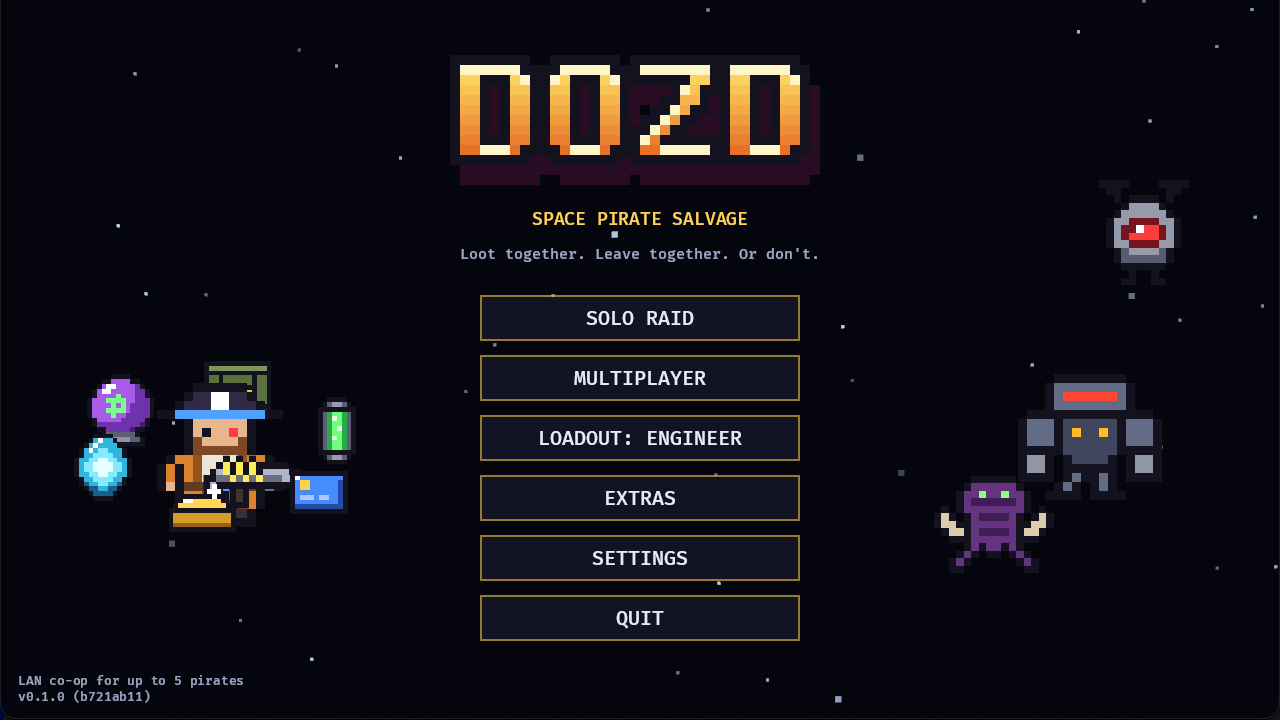
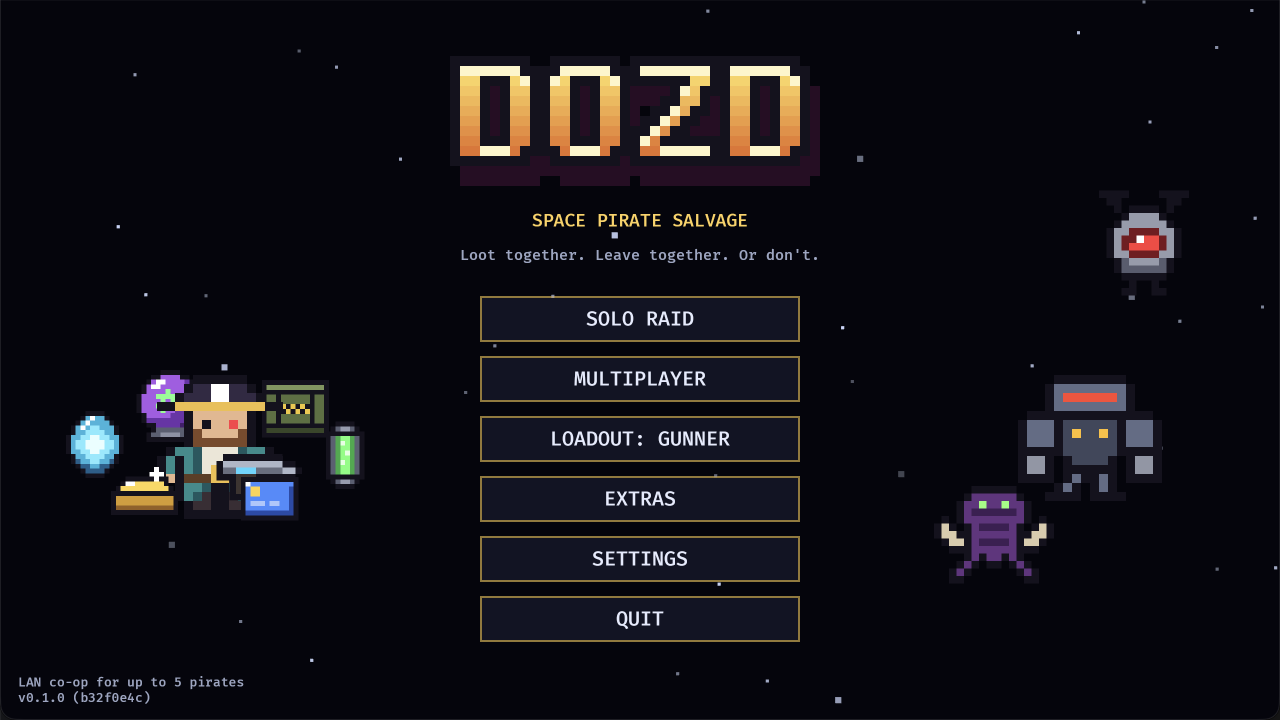
Retook the menu, lobby and enemies screenshots for the current build and added two of the Conductor's field to the README

diff --git a/README.md b/README.md
@@ -151,6 +151,8 @@ Built with Rust and [Bevy](https://bevyengine.org/); LAN multiplayer uses
 | The Vault Brute roaring guards in at the glowing spots | Worn down, the Vault Brute hardens: immune and healing, its plates counting down the time left |
 | ![Vault Prism](docs/screenshots/boss_prism.png) | ![Enemies](docs/screenshots/enemies.png) |
 | The Vault Prism behind its mirror shards, lashing the crew with arcs | The station's guards and vault bosses, under **EXTRAS** in the main menu |
+| ![Conductor](docs/screenshots/conductor.png) | ![Conductor fields](docs/screenshots/conductor_fields.png) |
+| A Conductor wading into the crew: every jolt is small, but they keep coming for as long as you stay in the circle | Its field in blue for the station, orange when enraged and green when hacked, zapping guards instead of the crew |
 
 ## Run
 
